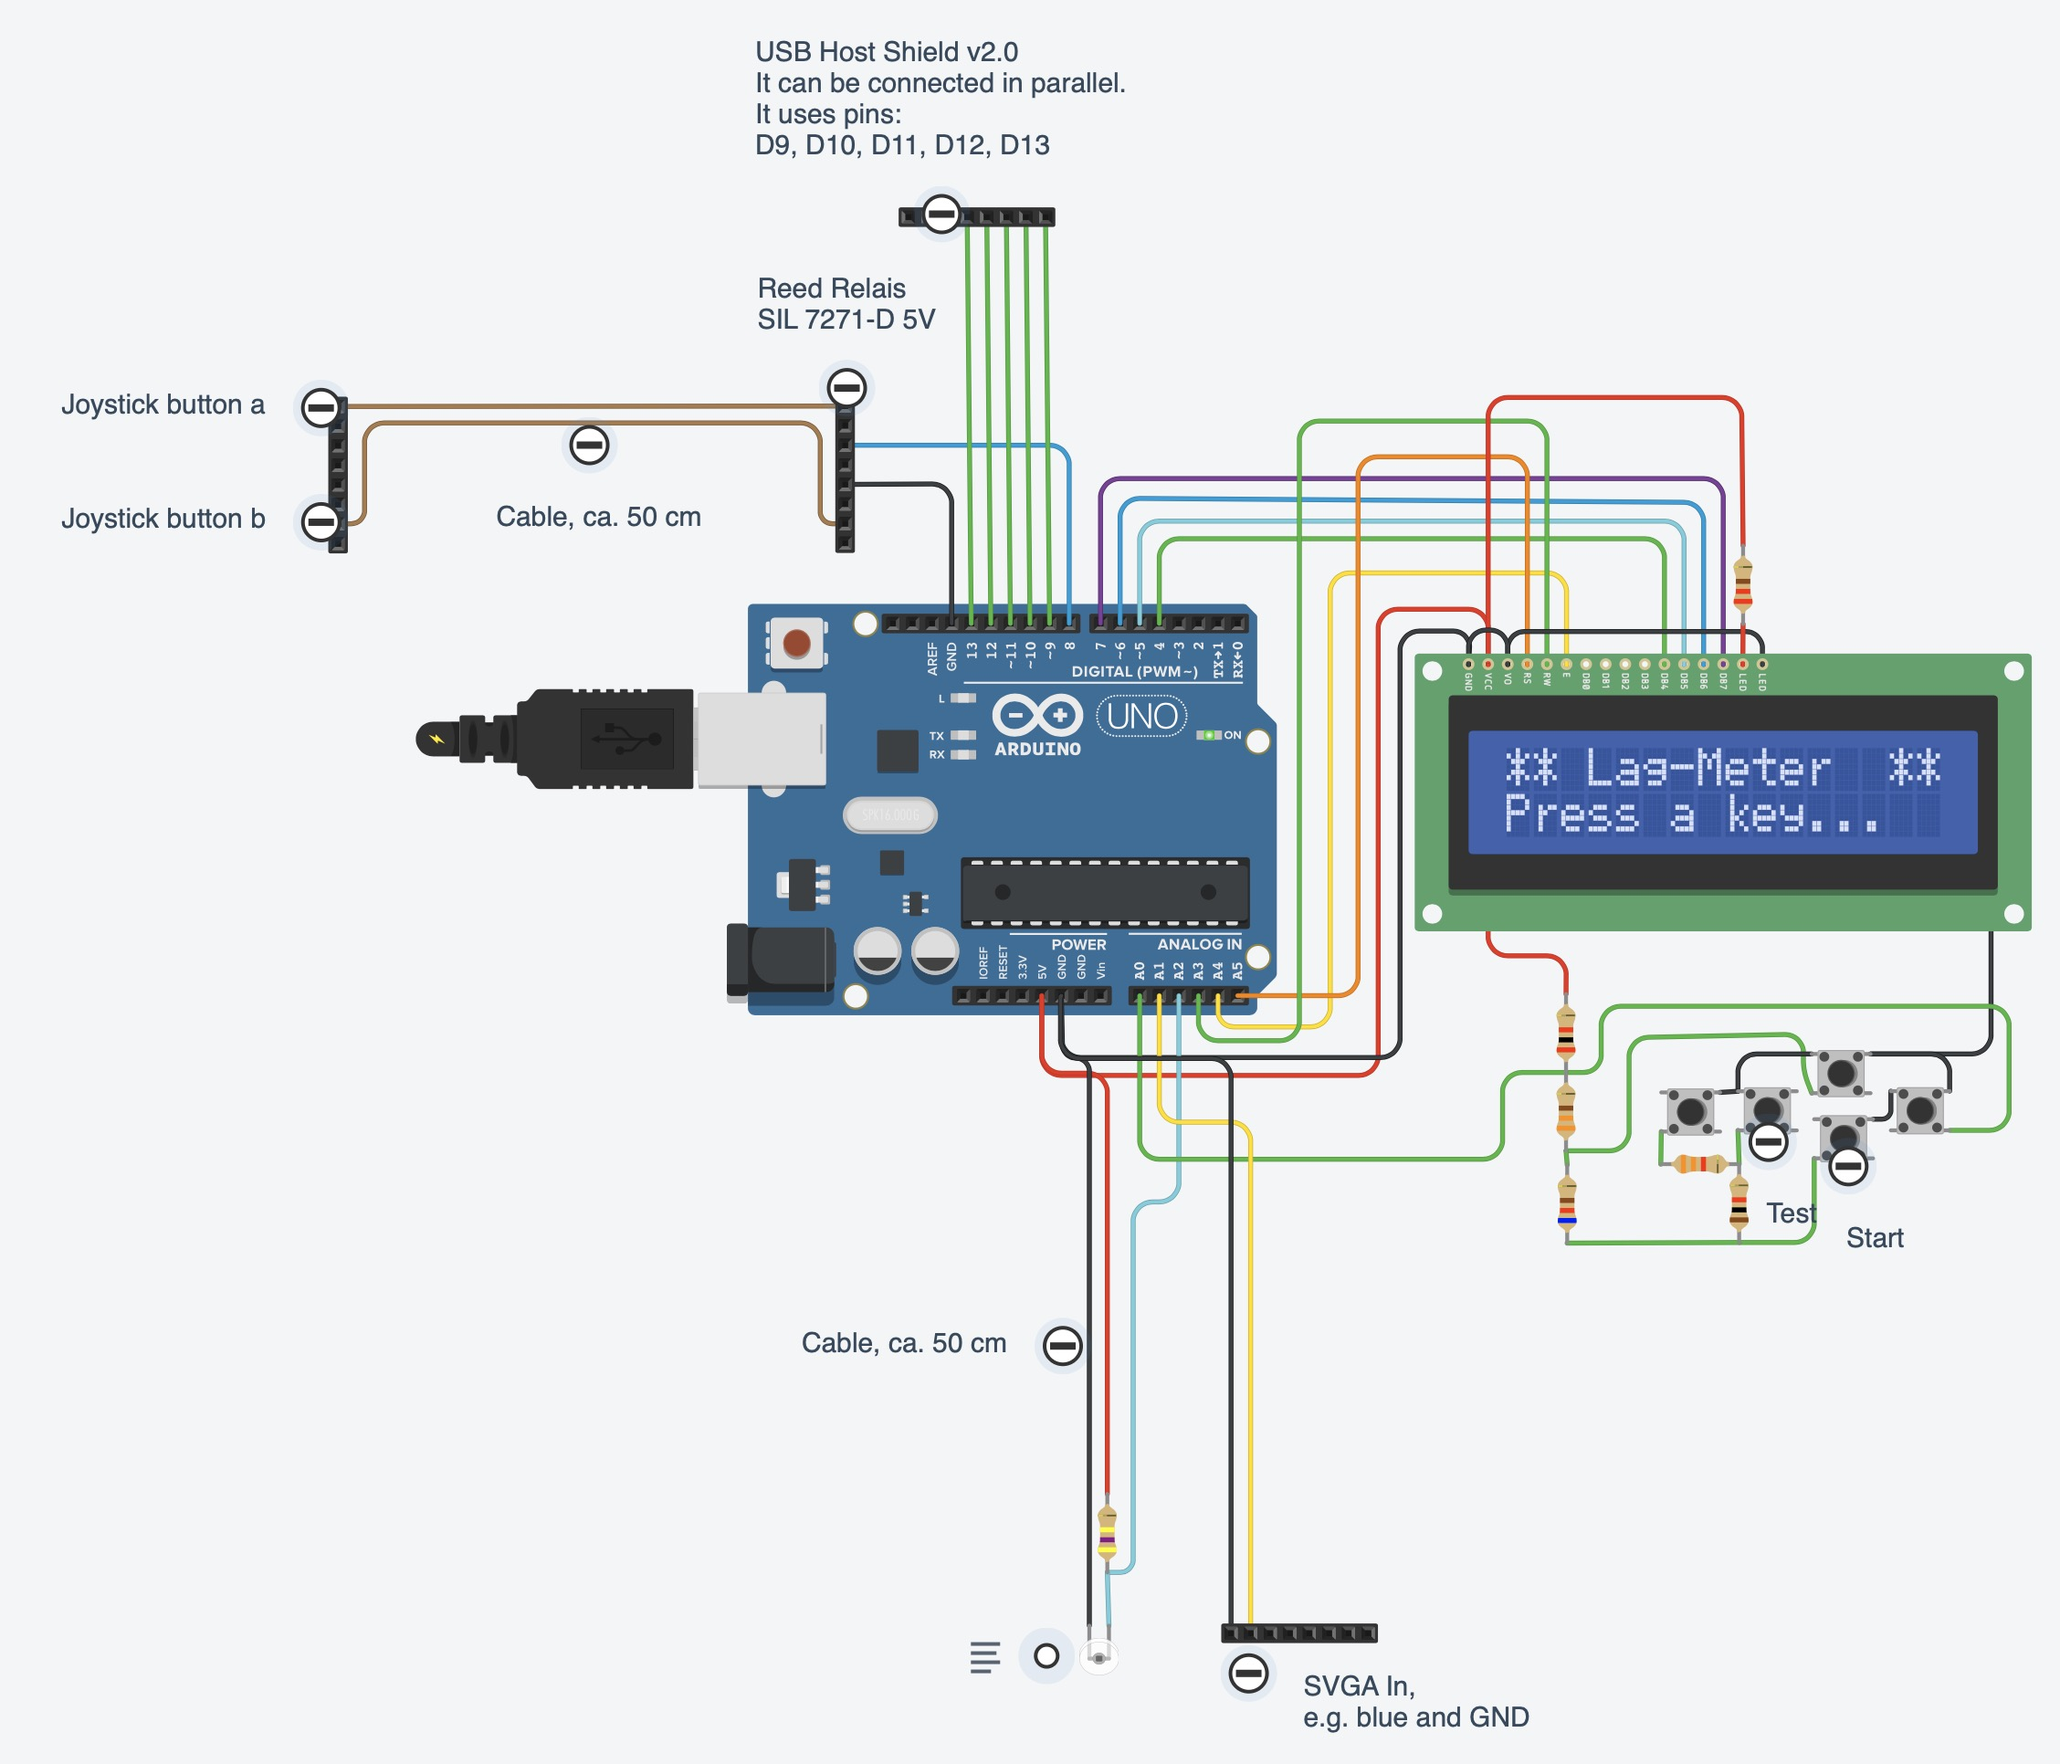
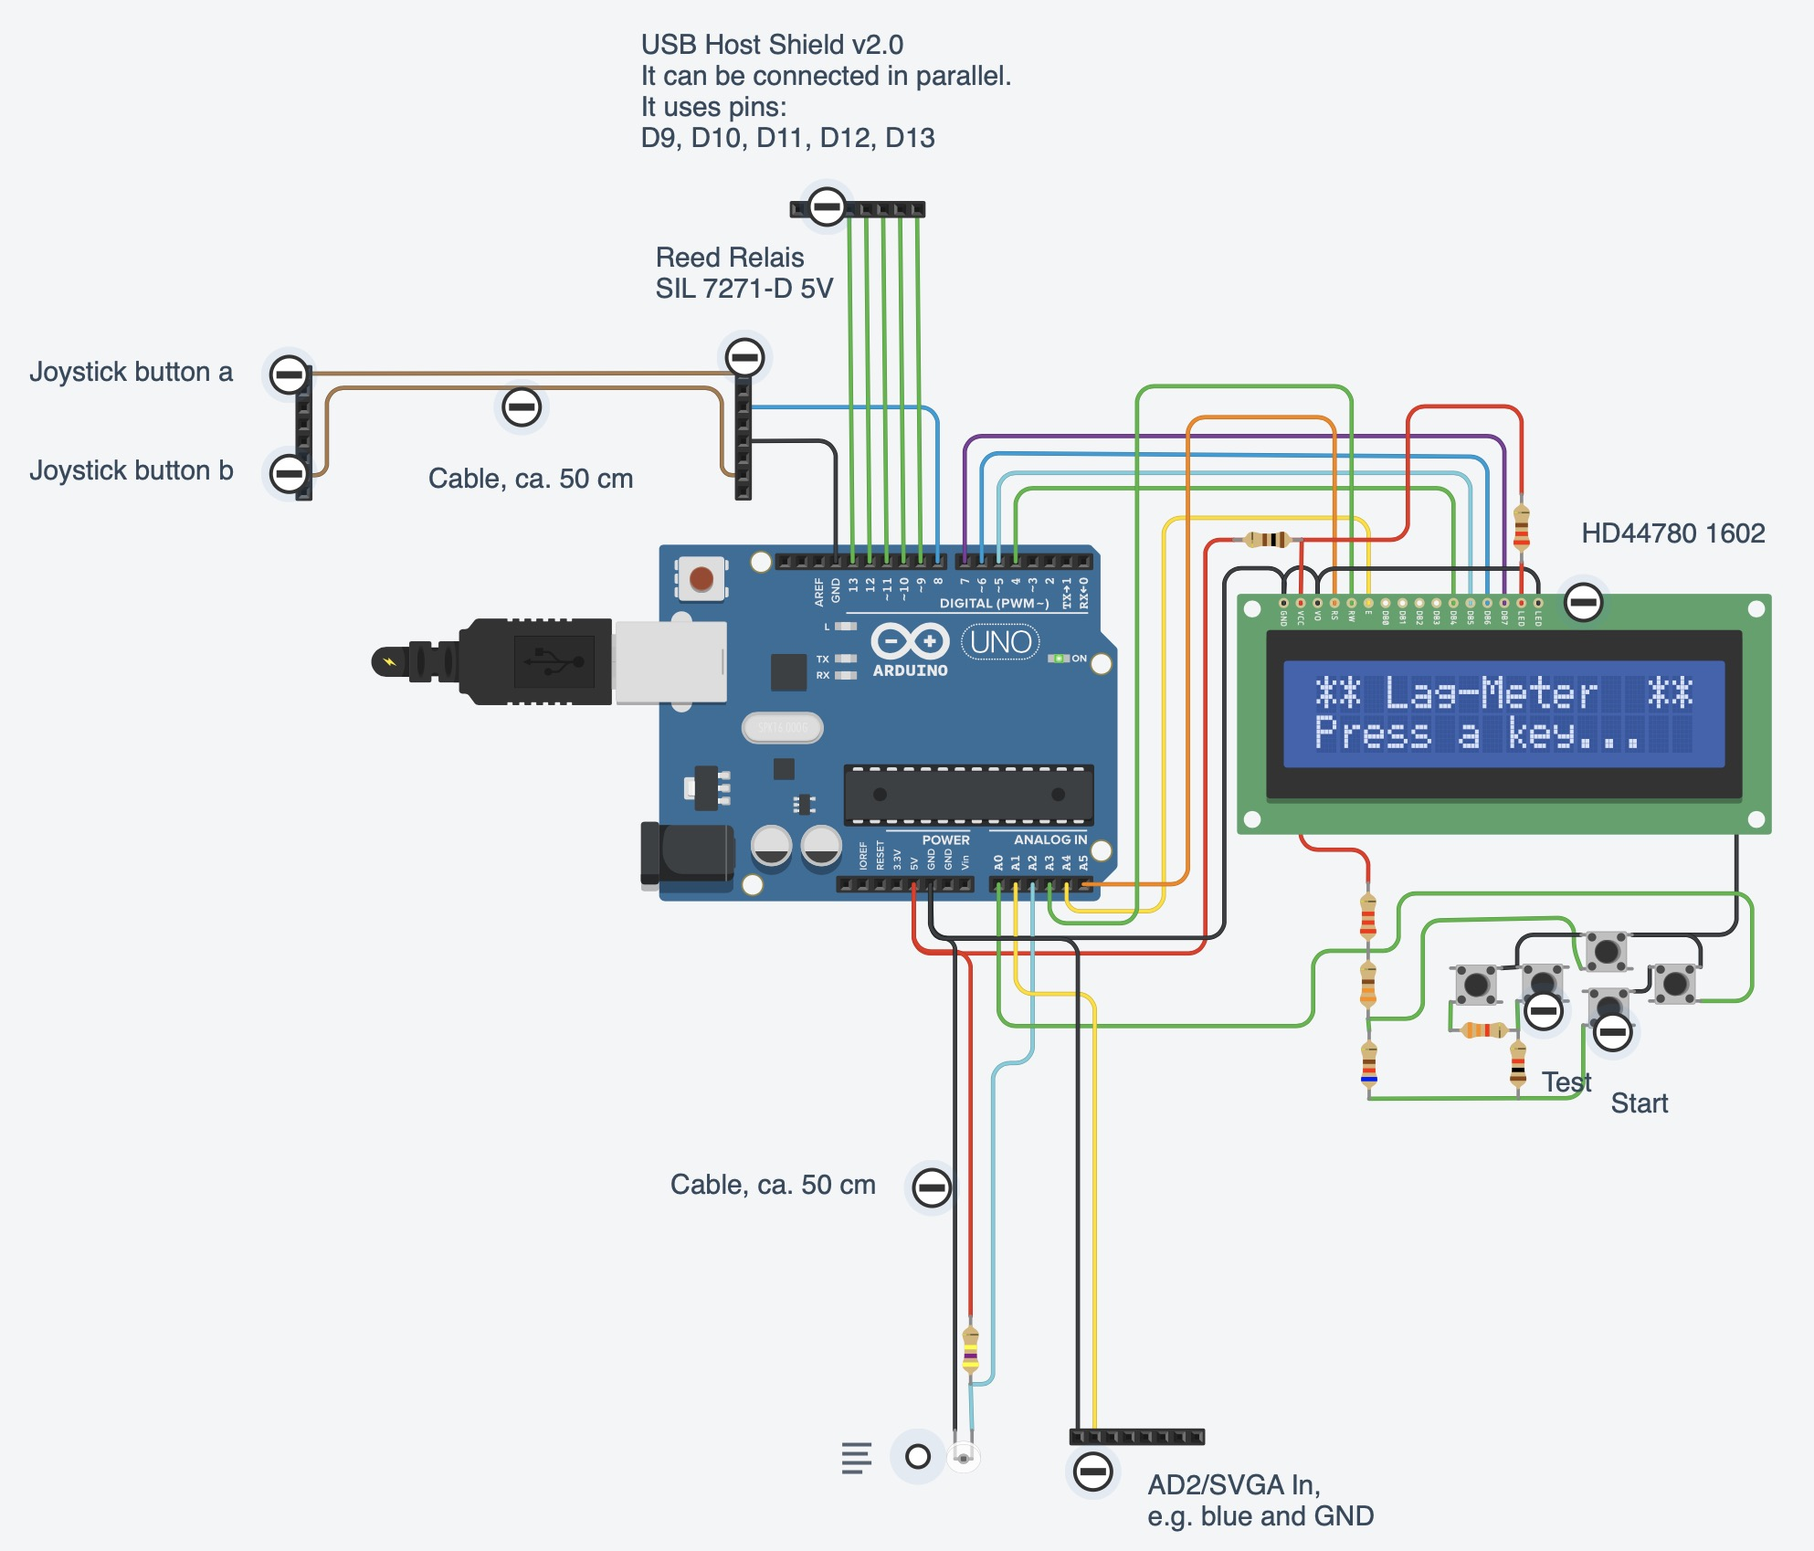
HW update.

Changed region(s): [[0.0312, 0.0, 0.999, 0.9988], [0.1873, 0.4058, 0.2497, 0.437]]

diff --git a/Readme.md b/Readme.md
@@ -220,18 +220,26 @@ So, even if you see that there is only one frame delay when single stepping the 
 
 ![](HW/LagMeter_TinkerCad.jpg)
 
-Note: You don't need to wire the LCD and buttons if you use the LCD Keypad shield. It already contains the buttons and teh correct connections.
+Note 1: You don't need to wire the LCD and buttons if you use the LCD Keypad shield. It already contains the buttons and the correct connections.
+
+Note 2: I had trouble with the contrat of the HD44780 1602 lcd Display. It turned out that the contrast became much better after I put a resistor (100 Ohm) in the +5V poer connection of the LCD. 
+I found this tweak here: https://forum.arduino.cc/index.php?topic=337502.msg4248679#msg4248679
+Maybe you need to play around with the values a little bit.
+
 
 
 ## Components List
 
 - Arduino Uno R3
-- LCD Keypad Shield
 - Reed Relais SIL 7271-D 5V
 - Phototransistor BPX 38-3 OSO
 - R=470k
 - USB Host Shield v2.0
+- HD44780 LCD Module Display (without I2C)
+- 5x buttons
+- Resistors: 330, 620, 1k, 2k2, 3k3
 
+Note: Instead of the LCD Module, the buttons and the resistors you could also use a LCD Keypad Shield.
 
 
 # SW

diff --git a/Docs/LagMeasurements.md b/Docs/LagMeasurements.md
@@ -57,7 +57,7 @@ Note: the numbers in brackets are the requested polling times. The real polling 
 - Linux:	Kernel 4.15.0, Ubuntu 16.04.1
 - Windows:	Windows 10
 - MAME/MESS:	v0.155
-- jstest:	Jstest-gtk. Joystick tester v0.1.0
+- jstest:	jstest-gtk. Joystick tester v0.1.0
 
 
 ## A note about Linux USB polling rates
